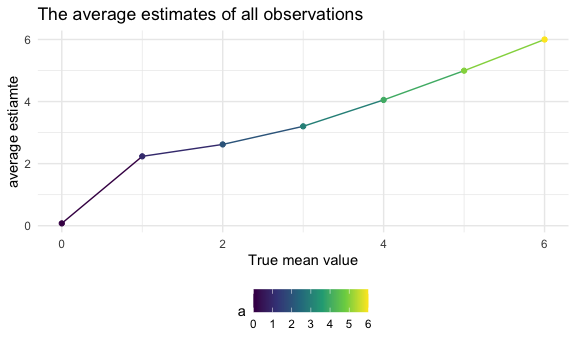
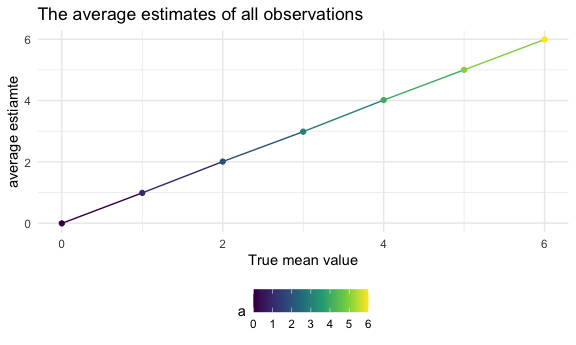
Fix the last 2 plots

diff --git a/p8105_hw5_tj2519.md b/p8105_hw5_tj2519.md
@@ -265,7 +265,6 @@ power.
 ``` r
 df_complete %>% 
   group_by(a) %>% 
-  filter(p_value < 0.05) %>% 
   summarize(avg = mean(estimate)) %>% 
   ggplot(aes(x = a, y = avg, color = a)) +
   geom_line() +
@@ -280,6 +279,7 @@ df_complete %>%
 ``` r
 df_complete %>% 
   group_by(a) %>% 
+  filter(p_value < 0.05) %>% 
   summarize(avg = mean(estimate)) %>% 
   ggplot(aes(x = a, y = avg, color = a)) +
   geom_line() +
@@ -290,6 +290,13 @@ df_complete %>%
 ```
 
 <img src="p8105_hw5_tj2519_files/figure-gfm/unnamed-chunk-14-2.png" width="90%" />
+
+``` r
+"The average estimates of all observations"
+```
+
+    ## [1] "The average estimates of all observations"
+
 According to the plot, except for 0, the average value of the estimates
 in samples for which the null was rejected is getting closer and closer
 to the true value as the true mean is getting larger. This occurs
